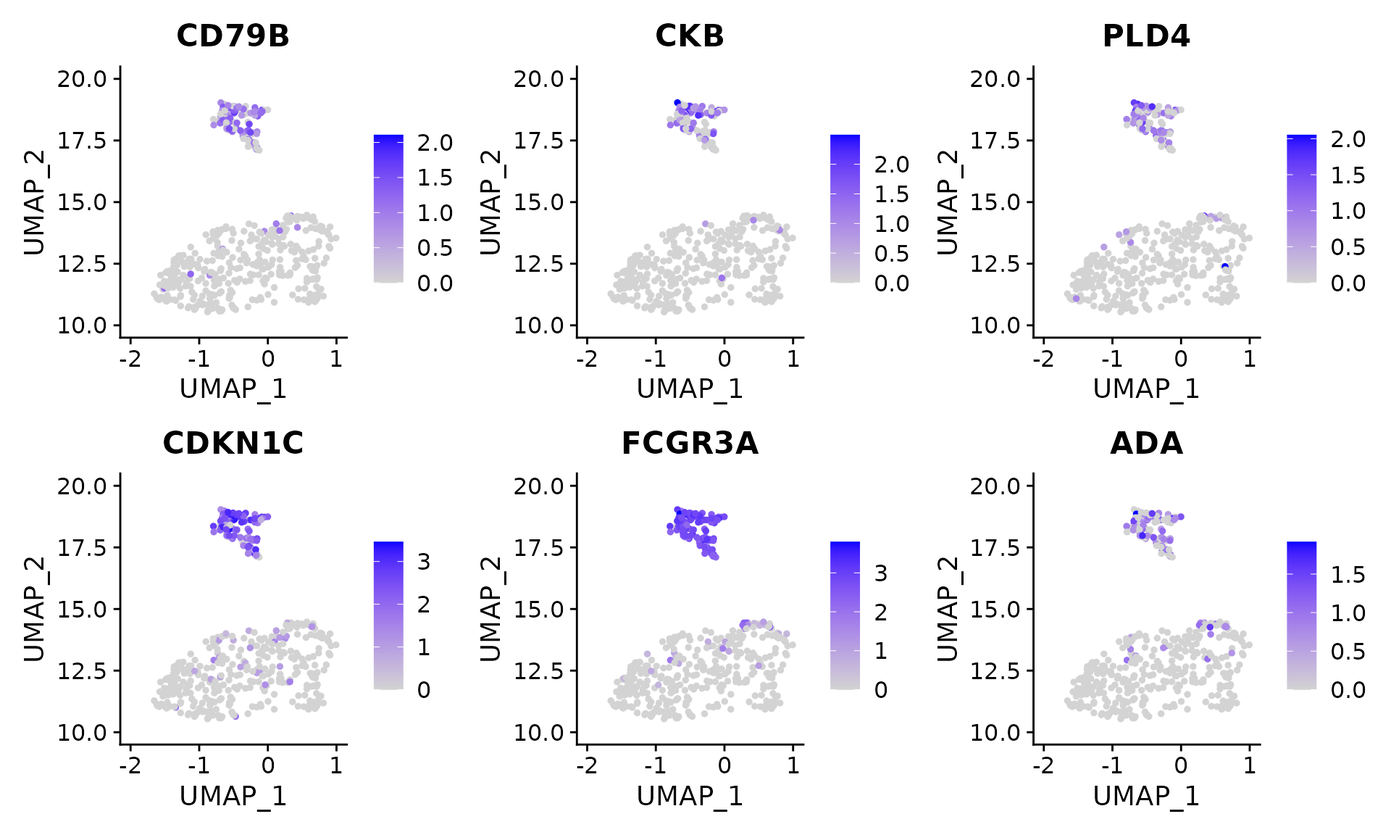
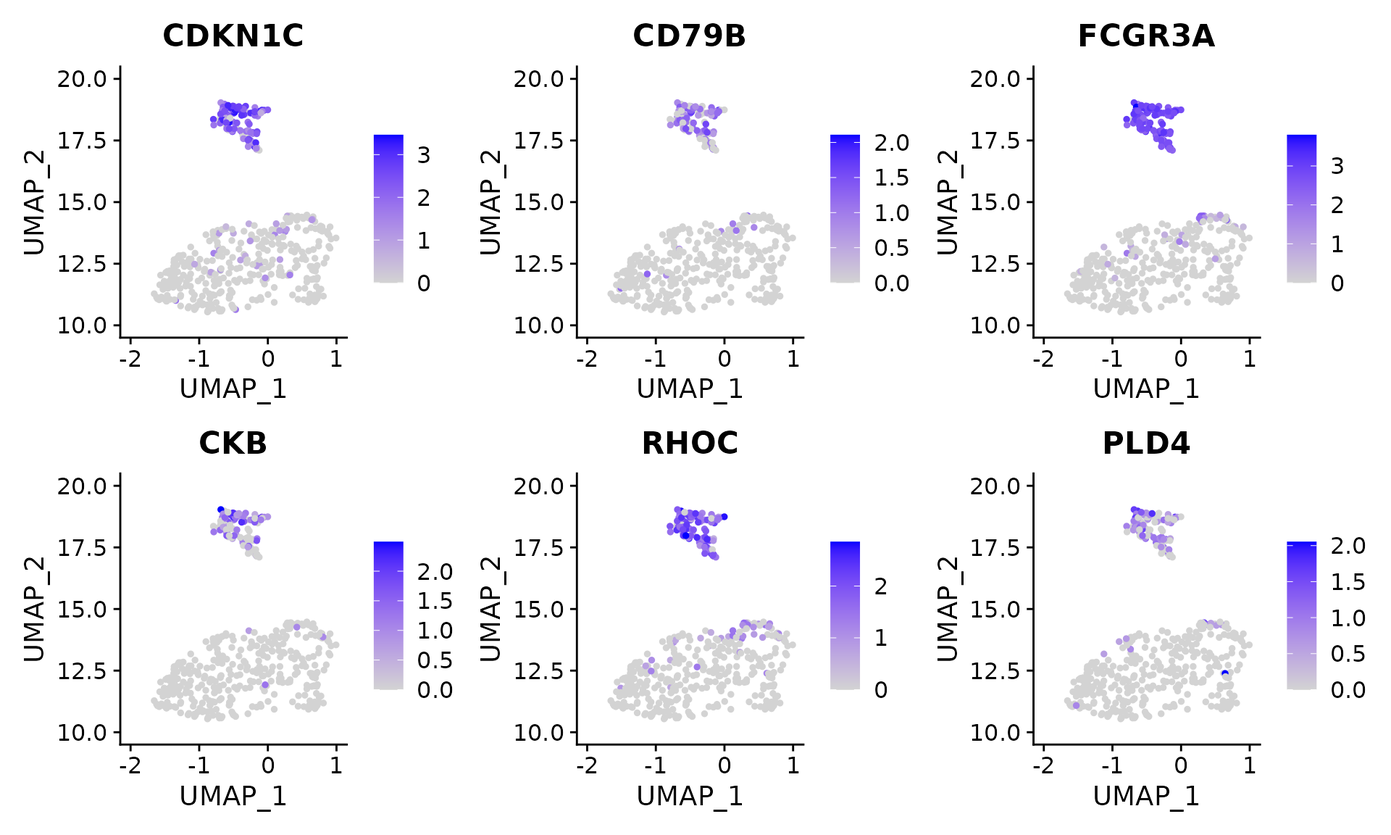
Deploying to gh-pages from @ SONGDONGYUAN1994/ClusterDE@92346c80395f09b808b0465364be4bd7e19adecf 🚀

diff --git a/articles/ClusterDE-PBMC.html b/articles/ClusterDE-PBMC.html
@@ -174,20 +174,20 @@ analysis, the cell type label is usually unknown.</p>
 <span><span class="co">#&gt; Warning: The default method for RunUMAP has changed from calling Python UMAP via reticulate to the R-native UWOT using the cosine metric</span></span>
 <span><span class="co">#&gt; To use Python UMAP via reticulate, set umap.method to 'umap-learn' and metric to 'correlation'</span></span>
 <span><span class="co">#&gt; This message will be shown once per session</span></span>
-<span><span class="co">#&gt; 02:08:07 UMAP embedding parameters a = 0.9922 b = 1.112</span></span>
-<span><span class="co">#&gt; 02:08:07 Read 3222 rows and found 10 numeric columns</span></span>
-<span><span class="co">#&gt; 02:08:07 Using Annoy for neighbor search, n_neighbors = 30</span></span>
-<span><span class="co">#&gt; 02:08:07 Building Annoy index with metric = cosine, n_trees = 50</span></span>
+<span><span class="co">#&gt; 18:15:41 UMAP embedding parameters a = 0.9922 b = 1.112</span></span>
+<span><span class="co">#&gt; 18:15:41 Read 3222 rows and found 10 numeric columns</span></span>
+<span><span class="co">#&gt; 18:15:41 Using Annoy for neighbor search, n_neighbors = 30</span></span>
+<span><span class="co">#&gt; 18:15:41 Building Annoy index with metric = cosine, n_trees = 50</span></span>
 <span><span class="co">#&gt; 0%   10   20   30   40   50   60   70   80   90   100%</span></span>
 <span><span class="co">#&gt; [----|----|----|----|----|----|----|----|----|----|</span></span>
 <span><span class="co">#&gt; **************************************************|</span></span>
-<span><span class="co">#&gt; 02:08:08 Writing NN index file to temp file /tmp/RtmpmukMvW/file256f18db7b5a</span></span>
-<span><span class="co">#&gt; 02:08:08 Searching Annoy index using 1 thread, search_k = 3000</span></span>
-<span><span class="co">#&gt; 02:08:09 Annoy recall = 100%</span></span>
-<span><span class="co">#&gt; 02:08:10 Commencing smooth kNN distance calibration using 1 thread with target n_neighbors = 30</span></span>
-<span><span class="co">#&gt; 02:08:11 Initializing from normalized Laplacian + noise (using irlba)</span></span>
-<span><span class="co">#&gt; 02:08:11 Commencing optimization for 500 epochs, with 126446 positive edges</span></span>
-<span><span class="co">#&gt; 02:08:16 Optimization finished</span></span>
+<span><span class="co">#&gt; 18:15:41 Writing NN index file to temp file /tmp/RtmptRhvxT/file1b9617566ccd</span></span>
+<span><span class="co">#&gt; 18:15:41 Searching Annoy index using 1 thread, search_k = 3000</span></span>
+<span><span class="co">#&gt; 18:15:42 Annoy recall = 100%</span></span>
+<span><span class="co">#&gt; 18:15:43 Commencing smooth kNN distance calibration using 1 thread with target n_neighbors = 30</span></span>
+<span><span class="co">#&gt; 18:15:44 Initializing from normalized Laplacian + noise (using irlba)</span></span>
+<span><span class="co">#&gt; 18:15:45 Commencing optimization for 500 epochs, with 126446 positive edges</span></span>
+<span><span class="co">#&gt; 18:15:49 Optimization finished</span></span>
 <span><span class="va">p1</span> <span class="op">&lt;-</span> <span class="fu"><a href="https://satijalab.org/seurat/reference/DimPlot.html" class="external-link">DimPlot</a></span><span class="op">(</span>object <span class="op">=</span> <span class="va">pbmc</span>, reduction <span class="op">=</span> <span class="st">"umap"</span>, label <span class="op">=</span> <span class="cn">TRUE</span><span class="op">)</span> <span class="op">+</span> <span class="fu"><a href="https://ggplot2.tidyverse.org/reference/labs.html" class="external-link">ggtitle</a></span><span class="op">(</span><span class="st">"Clustering result"</span><span class="op">)</span> <span class="op">+</span> <span class="fu"><a href="https://satijalab.org/seurat/reference/SeuratTheme.html" class="external-link">NoLegend</a></span><span class="op">(</span><span class="op">)</span></span>
 <span><span class="va">p2</span> <span class="op">&lt;-</span> <span class="fu"><a href="https://satijalab.org/seurat/reference/DimPlot.html" class="external-link">DimPlot</a></span><span class="op">(</span>object <span class="op">=</span> <span class="va">pbmc</span>, reduction <span class="op">=</span> <span class="st">"umap"</span>, group.by <span class="op">=</span> <span class="st">"CellType"</span>, label <span class="op">=</span> <span class="cn">TRUE</span><span class="op">)</span> <span class="op">+</span> <span class="fu"><a href="https://satijalab.org/seurat/reference/SeuratTheme.html" class="external-link">NoLegend</a></span><span class="op">(</span><span class="op">)</span></span>
 <span><span class="va">p1</span> <span class="op">+</span> <span class="va">p2</span></span></code></pre></div>
@@ -230,10 +230,10 @@ clusters you are interested in). You can increase the number of cores to
 speed it up.</p>
 <div class="sourceCode" id="cb6"><pre class="downlit sourceCode r">
 <code class="sourceCode R"><span><span class="va">count_mat</span> <span class="op">&lt;-</span> <span class="fu"><a href="https://mojaveazure.github.io/seurat-object/reference/AssayData.html" class="external-link">GetAssayData</a></span><span class="op">(</span>object <span class="op">=</span> <span class="va">pbmc_sub</span>, slot <span class="op">=</span> <span class="st">"counts"</span><span class="op">)</span></span>
-<span><span class="fu"><a href="https://rdrr.io/r/base/Random.html" class="external-link">set.seed</a></span><span class="op">(</span><span class="fl">123</span><span class="op">)</span></span>
+<span><span class="fu"><a href="https://rdrr.io/r/base/Random.html" class="external-link">set.seed</a></span><span class="op">(</span><span class="fl">1234</span><span class="op">)</span></span>
 <span><span class="fu"><a href="https://rdrr.io/r/base/system.time.html" class="external-link">system.time</a></span><span class="op">(</span><span class="va">synthetic_null</span> <span class="op">&lt;-</span> <span class="fu">ClusterDE</span><span class="fu">::</span><span class="fu"><a href="../reference/constructNull.html">constructNull</a></span><span class="op">(</span><span class="va">count_mat</span>, nCores <span class="op">=</span> <span class="fl">2</span>, fastVersion <span class="op">=</span> <span class="cn">TRUE</span><span class="op">)</span><span class="op">)</span></span>
 <span><span class="co">#&gt;    user  system elapsed </span></span>
-<span><span class="co">#&gt; 118.593  39.441  83.517</span></span></code></pre></div>
+<span><span class="co">#&gt; 107.129  35.044  74.955</span></span></code></pre></div>
 <p>We perform the same pipeline as we did for target data. Please note
 we need two clusters here, too. This is straightforward for clustering
 method with predefined cluster numbers, e.g., K-means. For louvain
@@ -249,40 +249,40 @@ parameter so that we still get two clusters.</p>
 <span><span class="co">#&gt; Centering and scaling data matrix</span></span>
 <span><span class="va">pbmc_null</span> <span class="op">&lt;-</span> <span class="fu"><a href="https://satijalab.org/seurat/reference/RunPCA.html" class="external-link">RunPCA</a></span><span class="op">(</span>object <span class="op">=</span> <span class="va">pbmc_null</span><span class="op">)</span></span>
 <span><span class="co">#&gt; PC_ 1 </span></span>
-<span><span class="co">#&gt; Positive:  VCAN, S100A8, SLC2A3, FOS, S100A9, S100A12, CD14, LYZ, RGS2, DUSP6 </span></span>
-<span><span class="co">#&gt;     FOSB, GPX1, IRF2BP2, SGK1, ZFP36L1, SELL, ARHGAP26, RNASE6, NCF1, EGR1 </span></span>
-<span><span class="co">#&gt;     CEBPD, IER3, CH17-373J23.1, NR4A2, MS4A6A, PPIF, CXCL8, CSF2RA, CD93, THBS1 </span></span>
-<span><span class="co">#&gt; Negative:  RPS19, RPS27, RPL8, PFN1, YBX1, AIF1, RPL10, FTL, LST1, RPL41 </span></span>
-<span><span class="co">#&gt;     NACA, EEF1A1, RPL19, TMSB10, COTL1, RPL11, FTH1, B2M, IFITM3, ARPC3 </span></span>
-<span><span class="co">#&gt;     RPL15, HLA-C, HLA-B, RPL7A, FCER1G, TMSB4X, RPS2, RPS3, IFITM2, RPL12 </span></span>
+<span><span class="co">#&gt; Positive:  RPS19, RPS27, RPL41, AIF1, LST1, B2M, RPL10, COTL1, FTH1, RPL19 </span></span>
+<span><span class="co">#&gt;     RPL8, RPL11, PFN1, HLA-C, NACA, YBX1, EEF1A1, FTL, FCER1G, HLA-B </span></span>
+<span><span class="co">#&gt;     RPL7A, TMSB10, IFITM3, RPL14, RPL15, FAU, CORO1A, RPS2, TMSB4X, RNASET2 </span></span>
+<span><span class="co">#&gt; Negative:  VCAN, S100A8, SLC2A3, FOS, S100A9, S100A12, CD14, LYZ, ITGAM, CSF3R </span></span>
+<span><span class="co">#&gt;     CD36, SELL, NCF1, MS4A6A, RGS2, DUSP6, GPX1, IRF2BP2, FPR1, FOSB </span></span>
+<span><span class="co">#&gt;     NR4A2, THBS1, ALOX5AP, CCR1, RNASE6, RP11-1143G9.4, ZFP36L1, NRGN, CYP1B1, CLEC4E </span></span>
 <span><span class="co">#&gt; PC_ 2 </span></span>
-<span><span class="co">#&gt; Positive:  KLF2, PECAM1, CDKN1C, MTSS1, FCGR3A, HES4, SOD1, FAM110A, GNG2, PIK3CG </span></span>
-<span><span class="co">#&gt;     SLC2A6, PAG1, RHOC, UNC119, ZNF703, BCL2A1, SNX9, PTPN6, IFITM2, RRAS </span></span>
-<span><span class="co">#&gt;     TBCB, BID, RASGRP2, LRRC25, SAT1, PHTF2, MS4A7, LINC01272, HN1, NAP1L1 </span></span>
-<span><span class="co">#&gt; Negative:  TPT1, LYZ, VIM, GPX1, HLA-DRA, RPS3A, GAPDH, GRN, RPL3, RPS18 </span></span>
-<span><span class="co">#&gt;     RPS23, RPL23A, HLA-DRB1, RPS6, RPS8, S100A10, FCN1, CPVL, RPL18A, MS4A6A </span></span>
-<span><span class="co">#&gt;     LGALS3, RPLP0, RPS2, S100A9, RPL34, RPL37A, CD99, CD14, EEF1A1, RPS27A </span></span>
+<span><span class="co">#&gt; Positive:  CDKN1C, RHOC, IFITM2, FCGR3A, KLF2, POU2F2, PAG1, HES4, MS4A7, SLC2A6 </span></span>
+<span><span class="co">#&gt;     LRRC25, PECAM1, RRAS, FAM110A, CYTIP, LYST, SSH2, DRAP1, LYL1, CSF1R </span></span>
+<span><span class="co">#&gt;     IFITM3, MTSS1, SPN, HN1, UNC119, SSBP4, SIGLEC10, SNX9, SOD1, BID </span></span>
+<span><span class="co">#&gt; Negative:  TPT1, RPS13, GAPDH, LYZ, GPX1, RPS18, RPS3A, RPL18A, VIM, RPL32 </span></span>
+<span><span class="co">#&gt;     RPL3, S100A10, RPS23, RPS6, RPL6, S100A9, RPS8, GRN, EEF1A1, RPLP0 </span></span>
+<span><span class="co">#&gt;     CD14, LGALS3, RPL34, RPL30, AP1S2, FCN1, FOS, RPL23A, RPS12, RPS4X </span></span>
 <span><span class="co">#&gt; PC_ 3 </span></span>
-<span><span class="co">#&gt; Positive:  RPL34, IRS2, LDHB, RPS15A, RPS3A, SARAF, RPS12, RPL30, HMGB2, RPL14 </span></span>
-<span><span class="co">#&gt;     ATM, LEPROTL1, ALOX5AP, RPS14, RPS3, RGS2, WIPF1, ZFP36L2, RPL26, RPS8 </span></span>
-<span><span class="co">#&gt;     SORL1, RNF144B, PYGL, BIN2, RPS4X, RPS27A, RPS6, CNTRL, RPL28, AES </span></span>
-<span><span class="co">#&gt; Negative:  HLA-DPB1, HLA-DRA, CST3, HLA-DPA1, APOBEC3A, HLA-DRB1, CD74, HLA-DQB1, EMP3, LIPA </span></span>
-<span><span class="co">#&gt;     S100A6, S100A11, DUSP6, HLA-DMA, ADAP2, LGALS3, COTL1, MARCKS, CD63, GRN </span></span>
-<span><span class="co">#&gt;     CPVL, PSME2, MARCKSL1, HLA-DMB, CTSH, ACTB, ID2, IL7R, SPARC, FGL2 </span></span>
+<span><span class="co">#&gt; Positive:  HMGB2, RGS2, RPS26, IRS2, TNFSF10, RNF144B, S100A12, CBX4, RPL34, RPL14 </span></span>
+<span><span class="co">#&gt;     S100A9, SOD2, S100A8, ACSL1, SELL, SOX4, ALOX5AP, EXOC1, EGR1, RPL30 </span></span>
+<span><span class="co">#&gt;     RPS3, RPS12, VCAN, CD48, FAM53C, CLEC2B, RPL12, GNG2, SARAF, SERTAD1 </span></span>
+<span><span class="co">#&gt; Negative:  HLA-DRA, CPVL, HLA-DPA1, HLA-DPB1, MAP3K8, HLA-DRB1, MARCKS, CD74, XYLT1, EZR </span></span>
+<span><span class="co">#&gt;     CST3, HLA-DQB1, HMOX1, CD300E, NAAA, BHLHE40, CD63, DUSP6, CDKN1A, RGCC </span></span>
+<span><span class="co">#&gt;     MAFB, APOBEC3A, HLA-DMA, DOK2, EMP3, RUNX3, ID2, ZMIZ1, LGALS3, CD93 </span></span>
 <span><span class="co">#&gt; PC_ 4 </span></span>
-<span><span class="co">#&gt; Positive:  S100A4, S100A8, S100A9, S100A6, S100A12, S100A11, GAPDH, CKAP4, G0S2, FTL </span></span>
-<span><span class="co">#&gt;     ACTB, FPR1, RBP7, SELL, PLBD1, FTH1, MGST3, CD14, FCN1, BCL6 </span></span>
-<span><span class="co">#&gt;     BCL2A1, LDHA, CD93, SOD2, ANXA1, SNX18, FCER1G, ARPC3, RNF144B, RGS2 </span></span>
-<span><span class="co">#&gt; Negative:  ARL4C, DDIT4, MALAT1, DDHD1, POLR2J3, LITAF, NKG7, HLA-DPA1, RUNX3, DDX6 </span></span>
-<span><span class="co">#&gt;     PSMA3-AS1, HLA-DPB1, RBBP7, IFI44, ASB8, IRF1, GADD45B, NPLOC4, APOL6, PID1 </span></span>
-<span><span class="co">#&gt;     RHOF, PPP2R5C, CD74, UTRN, SCFD1, UHMK1, PARP8, HBEGF, HLA-DMA, MIS18BP1 </span></span>
+<span><span class="co">#&gt; Positive:  PLBD1, PLAC8, S100A8, S100A9, CES1, SLA, S100A12, PARP14, SELL, PPP3R1 </span></span>
+<span><span class="co">#&gt;     SOD2, MAFB, FCN1, IRF7, BCL2A1, LY86, SPTLC2, OSM, VCAN, LYN </span></span>
+<span><span class="co">#&gt;     TUBA4A, AP1S2, LYZ, MBD2, OAS1, BLOC1S1, FPR1, APOBEC3A, RP11-1143G9.4, CD14 </span></span>
+<span><span class="co">#&gt; Negative:  RPL34, CDC123, RPS23, RPL12, HLA-DMB, RPL32, ANKRD36C, RPL14, RPL30, LPAR6 </span></span>
+<span><span class="co">#&gt;     EEF1B2, AHR, RPS4X, UBE2D4, TNNI2, HLA-DPB1, HIST1H1C, RSPRY1, HLA-DPA1, SNTB1 </span></span>
+<span><span class="co">#&gt;     HMGN1, RPS3A, MGAT4B, RPS12, FAM78A, RPS18, ICOSLG, CKS1B, B9D2, DTYMK </span></span>
 <span><span class="co">#&gt; PC_ 5 </span></span>
-<span><span class="co">#&gt; Positive:  MX1, OASL, FAM53C, IFIT3, LPP, LYL1, EIF2AK2, GRN, MX2, SPG11 </span></span>
-<span><span class="co">#&gt;     PLSCR1, PLBD1, ISG15, TBL1X, FCN1, CMPK2, SBF2, INSIG1, IFI44L, ATXN1 </span></span>
-<span><span class="co">#&gt;     SOCS3, STAT1, IRS2, PARP14, CORO1C, LINC01420, DNAJA2, USF2, ADGRE5, XAF1 </span></span>
-<span><span class="co">#&gt; Negative:  RPL30, FTH1, RPS27A, HLA-DRA, RECK, CYP1B1, SART3, RPL34, BTF3, SS18 </span></span>
-<span><span class="co">#&gt;     GTPBP10, DUSP6, TIPARP, RGS18, SIKE1, ICOSLG, RPS23, FBXO25, TSEN54, RFXAP </span></span>
-<span><span class="co">#&gt;     RPL8, MPP7, FAM73B, HIST2H2BE, LINC00528, PPID, ARPC2, RCAN1, H1F0, RPS12</span></span>
+<span><span class="co">#&gt; Positive:  S100A11, ACTB, GALNS, PLPPR2, FTH1, FTL, B3GALT6, TFAP4, ARPC3, DUSP10 </span></span>
+<span><span class="co">#&gt;     LCK, RALGDS, ZNF281, TYROBP, COTL1, ACTG1, GAPDH, S100A12, PLAUR, CXCL8 </span></span>
+<span><span class="co">#&gt;     BCL2A1, S100A4, NSFL1C, LILRB2, PLBD1, IL1RAP, CES1, PDE4B, FCER1G, APH1B </span></span>
+<span><span class="co">#&gt; Negative:  IFI44, STOM, ZC3HAV1, ARL4C, ATM, IFI44L, APOL6, MYLIP, MX1, AKNA </span></span>
+<span><span class="co">#&gt;     TNFAIP3, PARP14, STAT1, C5orf24, CCPG1, ZCCHC2, SNRNP200, MZT2B, DDX6, MGAT1 </span></span>
+<span><span class="co">#&gt;     CMPK2, PRAM1, SHISA5, UTRN, TMEM70, FBXO7, DNAJC8, MIS18BP1, B2M, MECP2</span></span>
 <span><span class="va">pbmc_null</span> <span class="op">&lt;-</span> <span class="fu"><a href="https://satijalab.org/seurat/reference/FindNeighbors.html" class="external-link">FindNeighbors</a></span><span class="op">(</span>object <span class="op">=</span> <span class="va">pbmc_null</span><span class="op">)</span></span>
 <span><span class="co">#&gt; Computing nearest neighbor graph</span></span>
 <span><span class="co">#&gt; Computing SNN</span></span>
@@ -290,27 +290,27 @@ parameter so that we still get two clusters.</p>
 <span><span class="co">#&gt; Modularity Optimizer version 1.3.0 by Ludo Waltman and Nees Jan van Eck</span></span>
 <span><span class="co">#&gt; </span></span>
 <span><span class="co">#&gt; Number of nodes: 453</span></span>
-<span><span class="co">#&gt; Number of edges: 17601</span></span>
+<span><span class="co">#&gt; Number of edges: 17874</span></span>
 <span><span class="co">#&gt; </span></span>
 <span><span class="co">#&gt; Running Louvain algorithm...</span></span>
-<span><span class="co">#&gt; Maximum modularity in 10 random starts: 0.7504</span></span>
+<span><span class="co">#&gt; Maximum modularity in 10 random starts: 0.7632</span></span>
 <span><span class="co">#&gt; Number of communities: 2</span></span>
 <span><span class="co">#&gt; Elapsed time: 0 seconds</span></span>
 <span><span class="va">pbmc_null</span> <span class="op">&lt;-</span> <span class="fu"><a href="https://satijalab.org/seurat/reference/RunUMAP.html" class="external-link">RunUMAP</a></span><span class="op">(</span>object <span class="op">=</span> <span class="va">pbmc_null</span>, dims <span class="op">=</span> <span class="fl">1</span><span class="op">:</span><span class="fl">10</span><span class="op">)</span></span>
-<span><span class="co">#&gt; 02:10:34 UMAP embedding parameters a = 0.9922 b = 1.112</span></span>
-<span><span class="co">#&gt; 02:10:34 Read 453 rows and found 10 numeric columns</span></span>
-<span><span class="co">#&gt; 02:10:34 Using Annoy for neighbor search, n_neighbors = 30</span></span>
-<span><span class="co">#&gt; 02:10:34 Building Annoy index with metric = cosine, n_trees = 50</span></span>
+<span><span class="co">#&gt; 18:17:52 UMAP embedding parameters a = 0.9922 b = 1.112</span></span>
+<span><span class="co">#&gt; 18:17:52 Read 453 rows and found 10 numeric columns</span></span>
+<span><span class="co">#&gt; 18:17:52 Using Annoy for neighbor search, n_neighbors = 30</span></span>
+<span><span class="co">#&gt; 18:17:52 Building Annoy index with metric = cosine, n_trees = 50</span></span>
 <span><span class="co">#&gt; 0%   10   20   30   40   50   60   70   80   90   100%</span></span>
 <span><span class="co">#&gt; [----|----|----|----|----|----|----|----|----|----|</span></span>
 <span><span class="co">#&gt; **************************************************|</span></span>
-<span><span class="co">#&gt; 02:10:34 Writing NN index file to temp file /tmp/RtmpmukMvW/file256f4b3c0496</span></span>
-<span><span class="co">#&gt; 02:10:34 Searching Annoy index using 1 thread, search_k = 3000</span></span>
-<span><span class="co">#&gt; 02:10:34 Annoy recall = 100%</span></span>
-<span><span class="co">#&gt; 02:10:35 Commencing smooth kNN distance calibration using 1 thread with target n_neighbors = 30</span></span>
-<span><span class="co">#&gt; 02:10:36 Initializing from normalized Laplacian + noise (using irlba)</span></span>
-<span><span class="co">#&gt; 02:10:36 Commencing optimization for 500 epochs, with 17928 positive edges</span></span>
-<span><span class="co">#&gt; 02:10:37 Optimization finished</span></span>
+<span><span class="co">#&gt; 18:17:52 Writing NN index file to temp file /tmp/RtmptRhvxT/file1b962d300176</span></span>
+<span><span class="co">#&gt; 18:17:52 Searching Annoy index using 1 thread, search_k = 3000</span></span>
+<span><span class="co">#&gt; 18:17:52 Annoy recall = 100%</span></span>
+<span><span class="co">#&gt; 18:17:53 Commencing smooth kNN distance calibration using 1 thread with target n_neighbors = 30</span></span>
+<span><span class="co">#&gt; 18:17:54 Initializing from normalized Laplacian + noise (using irlba)</span></span>
+<span><span class="co">#&gt; 18:17:54 Commencing optimization for 500 epochs, with 18194 positive edges</span></span>
+<span><span class="co">#&gt; 18:17:55 Optimization finished</span></span>
 <span><span class="fu"><a href="https://satijalab.org/seurat/reference/DimPlot.html" class="external-link">DimPlot</a></span><span class="op">(</span>object <span class="op">=</span> <span class="va">pbmc_null</span>, reduction <span class="op">=</span> <span class="st">"umap"</span><span class="op">)</span></span></code></pre></div>
 <p><img src="ClusterDE-PBMC_files/figure-html/unnamed-chunk-7-1.png" width="700"></p>
 <p>We perform the DE test on synthetic null data.</p>
@@ -337,12 +337,12 @@ score (cs)”.</p>
 <span><span class="co">#&gt; <span style="color: #949494;"># A tibble: 6 × 5</span></span></span>
 <span><span class="co">#&gt;   Gene   target    null    cs      q</span></span>
 <span><span class="co">#&gt;   <span style="color: #949494; font-style: italic;">&lt;chr&gt;</span>   <span style="color: #949494; font-style: italic;">&lt;dbl&gt;</span>   <span style="color: #949494; font-style: italic;">&lt;dbl&gt;</span> <span style="color: #949494; font-style: italic;">&lt;dbl&gt;</span>  <span style="color: #949494; font-style: italic;">&lt;dbl&gt;</span></span></span>
-<span><span class="co">#&gt; <span style="color: #BCBCBC;">1</span> CD79B    53.1  0.704   52.4 0.010<span style="text-decoration: underline;">3</span></span></span>
-<span><span class="co">#&gt; <span style="color: #BCBCBC;">2</span> CKB      44.6  0.147   44.4 0.010<span style="text-decoration: underline;">3</span></span></span>
-<span><span class="co">#&gt; <span style="color: #BCBCBC;">3</span> PLD4     36.2  1.06    35.1 0.010<span style="text-decoration: underline;">3</span></span></span>
-<span><span class="co">#&gt; <span style="color: #BCBCBC;">4</span> CDKN1C   67.5 35.7     31.8 0.010<span style="text-decoration: underline;">3</span></span></span>
-<span><span class="co">#&gt; <span style="color: #BCBCBC;">5</span> FCGR3A   79.0 48.8     30.2 0.010<span style="text-decoration: underline;">3</span></span></span>
-<span><span class="co">#&gt; <span style="color: #BCBCBC;">6</span> ADA      29.5  0.028<span style="text-decoration: underline;">8</span>  29.5 0.010<span style="text-decoration: underline;">3</span></span></span></code></pre></div>
+<span><span class="co">#&gt; <span style="color: #BCBCBC;">1</span> CDKN1C   67.5 12.9     54.6 0.047<span style="text-decoration: underline;">6</span></span></span>
+<span><span class="co">#&gt; <span style="color: #BCBCBC;">2</span> CD79B    53.1  0.080<span style="text-decoration: underline;">2</span>  53.1 0.047<span style="text-decoration: underline;">6</span></span></span>
+<span><span class="co">#&gt; <span style="color: #BCBCBC;">3</span> FCGR3A   79.0 27.1     51.9 0.047<span style="text-decoration: underline;">6</span></span></span>
+<span><span class="co">#&gt; <span style="color: #BCBCBC;">4</span> CKB      44.6  0.916   43.6 0.047<span style="text-decoration: underline;">6</span></span></span>
+<span><span class="co">#&gt; <span style="color: #BCBCBC;">5</span> RHOC     65.8 23.0     42.8 0.047<span style="text-decoration: underline;">6</span></span></span>
+<span><span class="co">#&gt; <span style="color: #BCBCBC;">6</span> PLD4     36.2  0.942   35.2 0.047<span style="text-decoration: underline;">6</span></span></span></code></pre></div>
 <p>To compare the result from the naive Seurat pipeline and ClusterDE,
 we first visualize the top 6 DE genes from Seurat. Genes <em>LST1</em>
 and <em>RPS19</em> are both highly expressed in two clusters. In

diff --git a/articles/ClusterDE-cellline.html b/articles/ClusterDE-cellline.html
@@ -174,20 +174,20 @@ is designed for 1 vs 1 comparison; therefore, we set the resolution as
 <span><span class="co">#&gt; Warning: The default method for RunUMAP has changed from calling Python UMAP via reticulate to the R-native UWOT using the cosine metric</span></span>
 <span><span class="co">#&gt; To use Python UMAP via reticulate, set umap.method to 'umap-learn' and metric to 'correlation'</span></span>
 <span><span class="co">#&gt; This message will be shown once per session</span></span>
-<span><span class="co">#&gt; 02:11:57 UMAP embedding parameters a = 0.9922 b = 1.112</span></span>
-<span><span class="co">#&gt; 02:11:57 Read 758 rows and found 10 numeric columns</span></span>
-<span><span class="co">#&gt; 02:11:57 Using Annoy for neighbor search, n_neighbors = 30</span></span>
-<span><span class="co">#&gt; 02:11:57 Building Annoy index with metric = cosine, n_trees = 50</span></span>
+<span><span class="co">#&gt; 18:19:21 UMAP embedding parameters a = 0.9922 b = 1.112</span></span>
+<span><span class="co">#&gt; 18:19:21 Read 758 rows and found 10 numeric columns</span></span>
+<span><span class="co">#&gt; 18:19:21 Using Annoy for neighbor search, n_neighbors = 30</span></span>
+<span><span class="co">#&gt; 18:19:21 Building Annoy index with metric = cosine, n_trees = 50</span></span>
 <span><span class="co">#&gt; 0%   10   20   30   40   50   60   70   80   90   100%</span></span>
 <span><span class="co">#&gt; [----|----|----|----|----|----|----|----|----|----|</span></span>
 <span><span class="co">#&gt; **************************************************|</span></span>
-<span><span class="co">#&gt; 02:11:57 Writing NN index file to temp file /tmp/RtmpQzZQGf/file26bb6aa181c2</span></span>
-<span><span class="co">#&gt; 02:11:57 Searching Annoy index using 1 thread, search_k = 3000</span></span>
-<span><span class="co">#&gt; 02:11:58 Annoy recall = 100%</span></span>
-<span><span class="co">#&gt; 02:11:58 Commencing smooth kNN distance calibration using 1 thread with target n_neighbors = 30</span></span>
-<span><span class="co">#&gt; 02:11:59 Initializing from normalized Laplacian + noise (using irlba)</span></span>
-<span><span class="co">#&gt; 02:11:59 Commencing optimization for 500 epochs, with 27914 positive edges</span></span>
-<span><span class="co">#&gt; 02:12:01 Optimization finished</span></span>
+<span><span class="co">#&gt; 18:19:21 Writing NN index file to temp file /tmp/RtmpQZhLJn/file1cad3127b870</span></span>
+<span><span class="co">#&gt; 18:19:21 Searching Annoy index using 1 thread, search_k = 3000</span></span>
+<span><span class="co">#&gt; 18:19:21 Annoy recall = 100%</span></span>
+<span><span class="co">#&gt; 18:19:22 Commencing smooth kNN distance calibration using 1 thread with target n_neighbors = 30</span></span>
+<span><span class="co">#&gt; 18:19:23 Initializing from normalized Laplacian + noise (using irlba)</span></span>
+<span><span class="co">#&gt; 18:19:23 Commencing optimization for 500 epochs, with 27914 positive edges</span></span>
+<span><span class="co">#&gt; 18:19:24 Optimization finished</span></span>
 <span><span class="co">#&gt; Warning: Cannot add objects with duplicate keys (offending key: UMAP_), setting</span></span>
 <span><span class="co">#&gt; key to 'umap_'</span></span>
 <span><span class="fu"><a href="https://satijalab.org/seurat/reference/DimPlot.html" class="external-link">DimPlot</a></span><span class="op">(</span>object <span class="op">=</span> <span class="va">cellline</span>, reduction <span class="op">=</span> <span class="st">"umap"</span><span class="op">)</span> <span class="op">+</span> <span class="fu"><a href="https://ggplot2.tidyverse.org/reference/labs.html" class="external-link">ggtitle</a></span><span class="op">(</span><span class="st">"Clustering result"</span><span class="op">)</span></span></code></pre></div>
@@ -225,7 +225,7 @@ discoveries.</p>
 <span><span class="fu"><a href="https://rdrr.io/r/base/Random.html" class="external-link">set.seed</a></span><span class="op">(</span><span class="fl">123</span><span class="op">)</span></span>
 <span><span class="fu"><a href="https://rdrr.io/r/base/system.time.html" class="external-link">system.time</a></span><span class="op">(</span><span class="va">synthetic_null</span> <span class="op">&lt;-</span> <span class="fu">ClusterDE</span><span class="fu">::</span><span class="fu"><a href="../reference/constructNull.html">constructNull</a></span><span class="op">(</span><span class="va">count_mat</span>, nCores <span class="op">=</span> <span class="fl">2</span>, fastVersion <span class="op">=</span> <span class="cn">TRUE</span>, family <span class="op">=</span> <span class="st">"nb"</span><span class="op">)</span><span class="op">)</span></span>
 <span><span class="co">#&gt;    user  system elapsed </span></span>
-<span><span class="co">#&gt; 214.179  54.965 142.877</span></span></code></pre></div>
+<span><span class="co">#&gt; 182.637  45.973 121.183</span></span></code></pre></div>
 <p>We perform the same pipeline as we did for target data. Please note
 we need two clusters here, too. This is straightforward for clustering
 method with predefined cluster numbers, e.g., K-means. For louvain
@@ -289,20 +289,20 @@ parameter so that we still get two clusters.</p>
 <span><span class="co">#&gt; Number of communities: 2</span></span>
 <span><span class="co">#&gt; Elapsed time: 0 seconds</span></span>
 <span><span class="va">cellline_null</span> <span class="op">&lt;-</span> <span class="fu"><a href="https://satijalab.org/seurat/reference/RunUMAP.html" class="external-link">RunUMAP</a></span><span class="op">(</span>object <span class="op">=</span> <span class="va">cellline_null</span>, dims <span class="op">=</span> <span class="fl">1</span><span class="op">:</span><span class="fl">10</span><span class="op">)</span></span>
-<span><span class="co">#&gt; 02:16:04 UMAP embedding parameters a = 0.9922 b = 1.112</span></span>
-<span><span class="co">#&gt; 02:16:04 Read 758 rows and found 10 numeric columns</span></span>
-<span><span class="co">#&gt; 02:16:04 Using Annoy for neighbor search, n_neighbors = 30</span></span>
-<span><span class="co">#&gt; 02:16:04 Building Annoy index with metric = cosine, n_trees = 50</span></span>
+<span><span class="co">#&gt; 18:22:58 UMAP embedding parameters a = 0.9922 b = 1.112</span></span>
+<span><span class="co">#&gt; 18:22:58 Read 758 rows and found 10 numeric columns</span></span>
+<span><span class="co">#&gt; 18:22:58 Using Annoy for neighbor search, n_neighbors = 30</span></span>
+<span><span class="co">#&gt; 18:22:58 Building Annoy index with metric = cosine, n_trees = 50</span></span>
 <span><span class="co">#&gt; 0%   10   20   30   40   50   60   70   80   90   100%</span></span>
 <span><span class="co">#&gt; [----|----|----|----|----|----|----|----|----|----|</span></span>
 <span><span class="co">#&gt; **************************************************|</span></span>
-<span><span class="co">#&gt; 02:16:04 Writing NN index file to temp file /tmp/RtmpQzZQGf/file26bb83dfb3c</span></span>
-<span><span class="co">#&gt; 02:16:04 Searching Annoy index using 1 thread, search_k = 3000</span></span>
-<span><span class="co">#&gt; 02:16:04 Annoy recall = 100%</span></span>
-<span><span class="co">#&gt; 02:16:05 Commencing smooth kNN distance calibration using 1 thread with target n_neighbors = 30</span></span>
-<span><span class="co">#&gt; 02:16:06 Initializing from normalized Laplacian + noise (using irlba)</span></span>
-<span><span class="co">#&gt; 02:16:06 Commencing optimization for 500 epochs, with 28370 positive edges</span></span>
-<span><span class="co">#&gt; 02:16:08 Optimization finished</span></span>
+<span><span class="co">#&gt; 18:22:58 Writing NN index file to temp file /tmp/RtmpQZhLJn/file1cad32d5eb34</span></span>
+<span><span class="co">#&gt; 18:22:58 Searching Annoy index using 1 thread, search_k = 3000</span></span>
+<span><span class="co">#&gt; 18:22:58 Annoy recall = 100%</span></span>
+<span><span class="co">#&gt; 18:22:59 Commencing smooth kNN distance calibration using 1 thread with target n_neighbors = 30</span></span>
+<span><span class="co">#&gt; 18:23:00 Initializing from normalized Laplacian + noise (using irlba)</span></span>
+<span><span class="co">#&gt; 18:23:00 Commencing optimization for 500 epochs, with 28370 positive edges</span></span>
+<span><span class="co">#&gt; 18:23:02 Optimization finished</span></span>
 <span><span class="fu"><a href="https://satijalab.org/seurat/reference/DimPlot.html" class="external-link">DimPlot</a></span><span class="op">(</span>object <span class="op">=</span> <span class="va">cellline_null</span>, reduction <span class="op">=</span> <span class="st">"umap"</span><span class="op">)</span></span></code></pre></div>
 <p><img src="ClusterDE-cellline_files/figure-html/unnamed-chunk-6-1.png" width="700">
 We perform the DE test on synthetic null data.</p>
